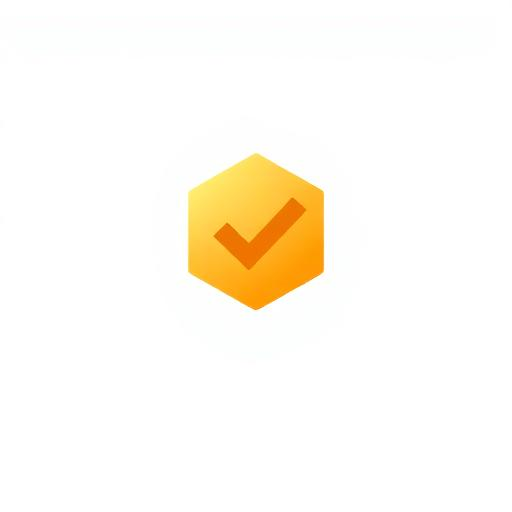
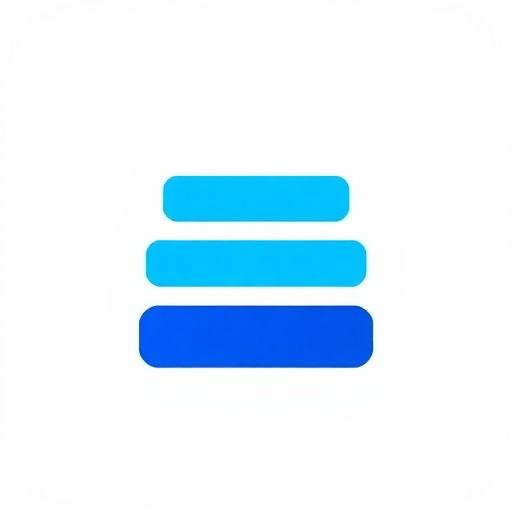
Changes

Changed region(s): [[0.25, 0.2812, 0.75, 0.7188]]

diff --git a/src/components/stack/screens/WelcomeScreen.tsx b/src/components/stack/screens/WelcomeScreen.tsx
@@ -2,6 +2,7 @@ import { motion } from 'framer-motion';
 import { ChevronRight, Home, Briefcase, Shield, Award, Sparkles } from 'lucide-react';
 import { UserType } from '@/types/stack';
 import { ThemeToggle } from '@/components/theme-toggle';
+import stackLogo from '@/assets/stack-logo.png';
 
 interface WelcomeScreenProps {
   onSelectUserType: (type: UserType) => void;
@@ -50,7 +51,7 @@ const WelcomeScreen = ({
           duration: 4,
           repeat: Infinity,
           ease: "easeInOut"
-        }} src="/lovable-uploads/295de576-689e-44cb-baa0-5e4a8954d2c5.png" className="w-28 h-28 mx-auto bg-background rounded-none object-cover relative z-10" />
+        }} src={stackLogo} className="w-28 h-28 mx-auto bg-background rounded-none object-cover relative z-10" />
         </motion.div>
         <h1 className="font-display text-5xl font-bold text-foreground mb-3 tracking-tight">Stack</h1>
         <p className="text-lg text-muted-foreground">Verified Pros. Guaranteed Value.</p>

diff --git a/index.html b/index.html
@@ -8,7 +8,7 @@
     <meta name="author" content="Lovable" />
 
     <!-- PWA Meta Tags -->
-    <meta name="theme-color" content="#F59E0B" />
+    <meta name="theme-color" content="#3B82F6" />
     <meta name="apple-mobile-web-app-capable" content="yes" />
     <meta name="apple-mobile-web-app-status-bar-style" content="black-translucent" />
     <meta name="apple-mobile-web-app-title" content="Stack" />
